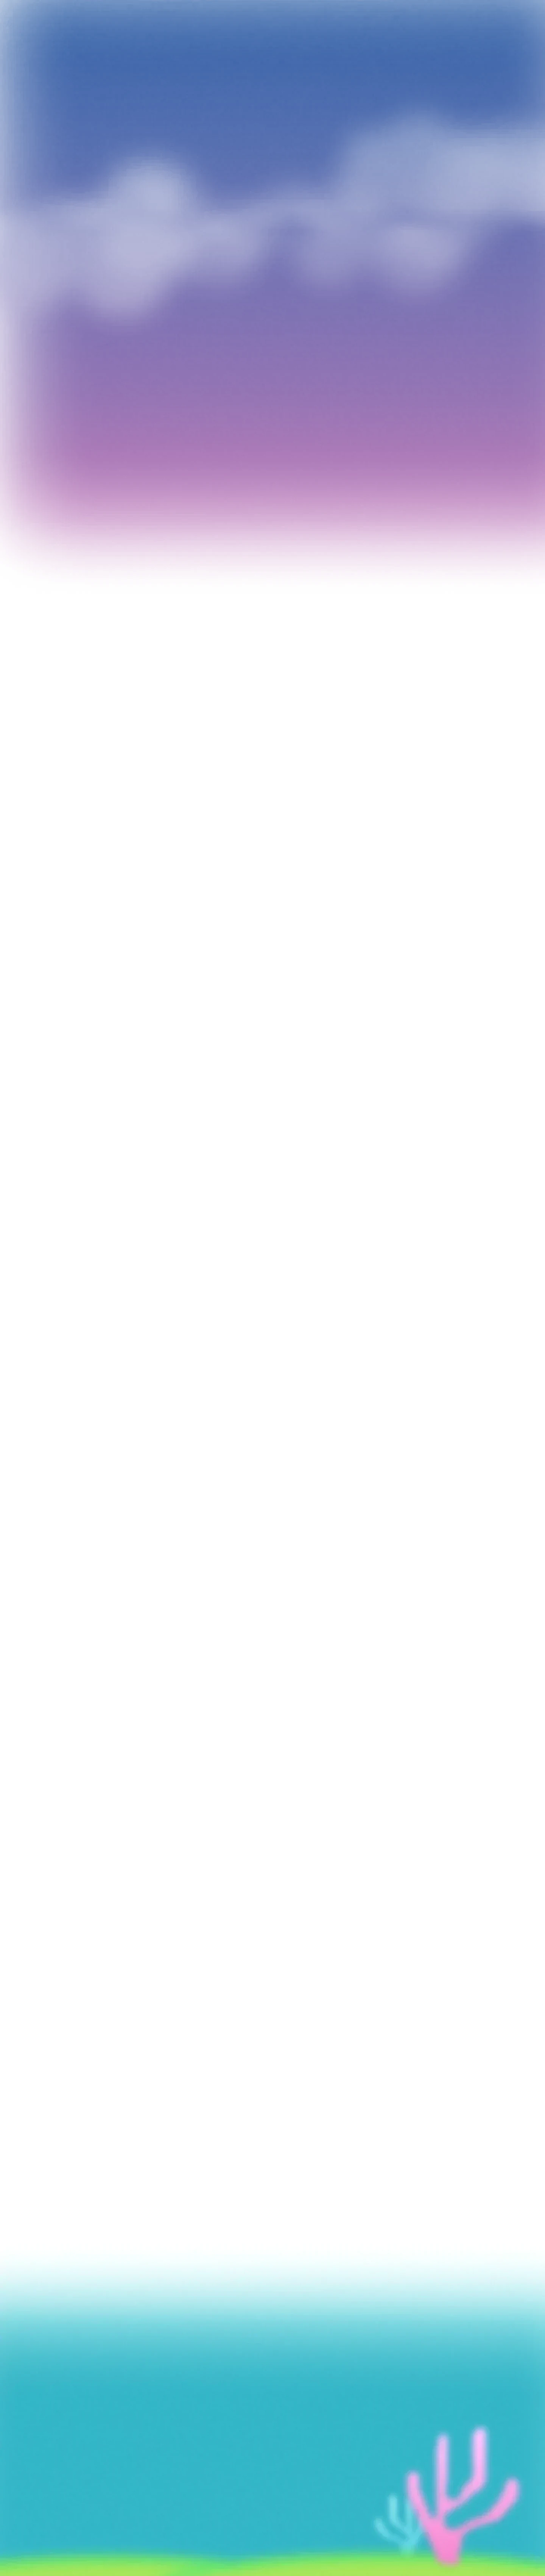
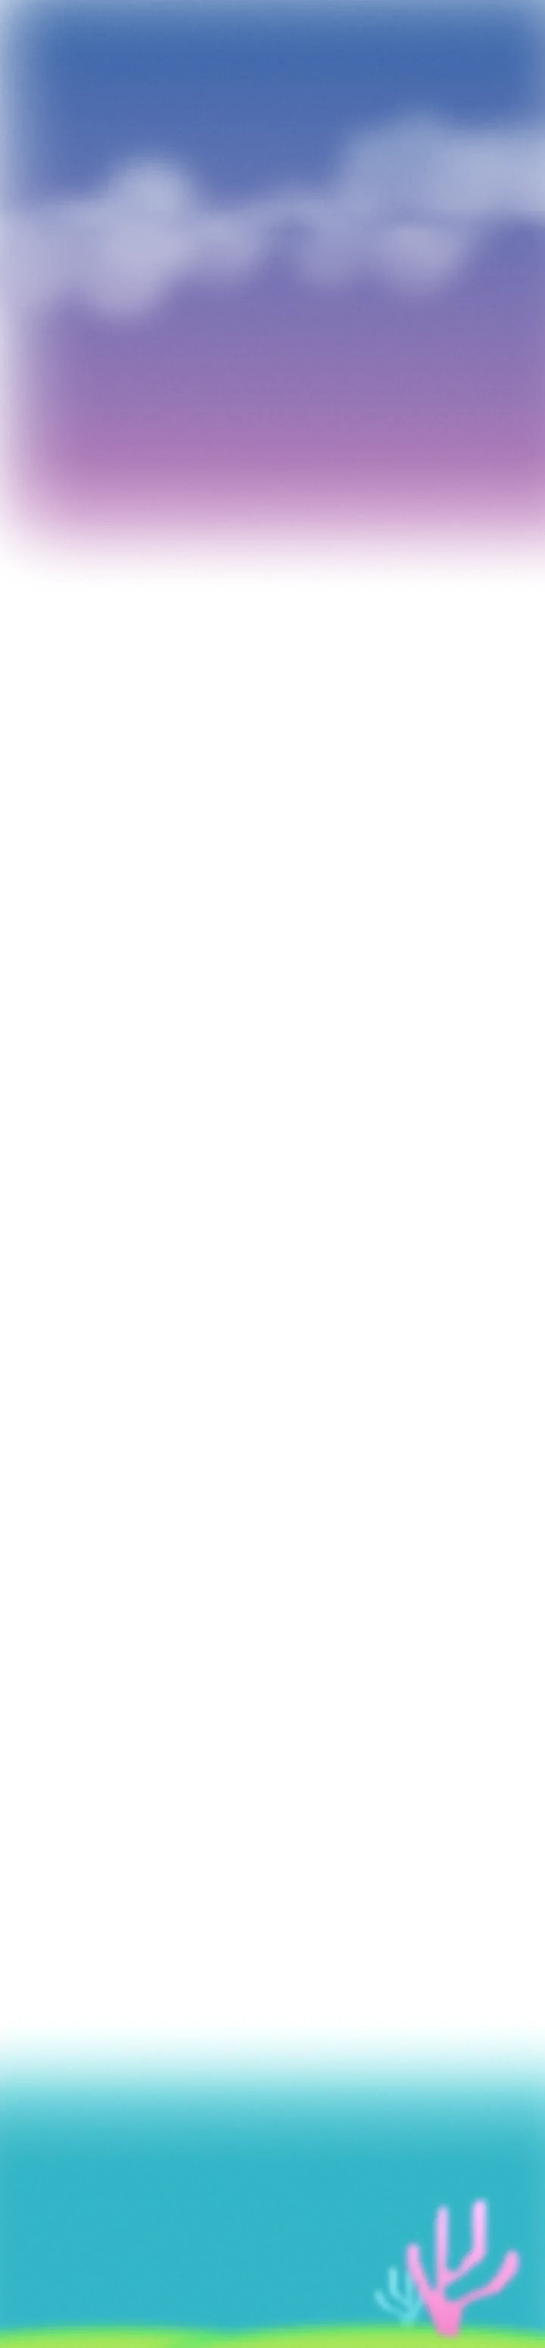
Shorter fall, no leaves, bigger laptop keeps the tab as its screen
- 600px of white cut between Work and the sunset (background, sunset, fish
  and contact moved up), so the tab's fall is about 40% shorter.
- The leaf doors over the sunset are removed.
- The laptop is 1.3x bigger; the empty tab stays in it as its screen (riding
  along as it drops and floats), with "Discover more UX related projects on
  Behance" in bigger type.
- Fix: the last project tab lost its colour (showed black) after scrolling
  back up; it is restored to the project colour now.

Claude-Session: https://claude.ai/code/session_01DvA43kwznhfsetrajp2DeL

diff --git a/chameleon.js b/chameleon.js
@@ -168,36 +168,54 @@
   const laptop = $('#laptop'), screenLink = $('#screen'), art = $('.sunset-art');
   const seaFront = $('#seaFront'), seaCrest = $('#seaCrest');
   if (laptop && screenLink && art && seaFront) {
+    const LAST = PROJECTS[PROJECTS.length - 1];
     const last = cards[cards.length - 1], slot = last.parentElement, lastImg = last.querySelector('.thumb img');
-    const GLASS = { x: 513.1 + 32.6, y: 293 + 112.8, w: 331.9, rot: -10.5 };   // the screen glass in sunset coords
+    const S = 1.3;                                   // the laptop is drawn 1.3× its Figma size
+    const O = { x: 513.1 + 276, y: 293 + 420 };      // its pivot (laptop.svg 276, 420) in sunset coords
+    const GLASS = { x: 32.6 - 276, y: 112.8 - 420, w: 331.9, rot: -10.5 };   // the screen glass, from the pivot
     const HOVER = -40, REST = 38;              // laptop offset before the drop, and floating in the sea
     const SEA = { top: 700, line: 48 };        // the sea strip's top (sunset coords) and its calm waterline in it
     const TEAL = [82, 197, 211], WHITE = [246, 250, 252];
     const hex = h => [1, 3, 5].map(i => parseInt(h.slice(i, i + 2), 16));
     const mix = (a, b, t) => `rgb(${a.map((v, i) => Math.round(v + (b[i] - v) * t)).join(',')})`;
     const smooth = t => t * t * (3 - 2 * t);
-    const lastTab = hex(PROJECTS[PROJECTS.length - 1].tab);
+    const lastTab = hex(LAST.tab);
     // the sea's surface: two slow swells
     const wave = (x, t) => 7 * Math.sin(x / 150 + t * 1.25) + 4 * Math.sin(x / 61 - t * .85);
 
-    let landed = false, y = HOVER, v = 0, lastT = performance.now();
+    // the empty tab that stays in the laptop as its screen, under the text
+    const screenTab = document.createElement('span');
+    screenTab.className = 'wcard active laptop-tab';
+    screenTab.setAttribute('aria-hidden', 'true');
+    screenTab.style.setProperty('--tab', `rgb(${TEAL})`); screenTab.style.setProperty('--c', `rgb(${TEAL})`);
+    screenTab.innerHTML = `<span class="win"><span class="thumb"></span>${tabSvg('lap')}</span>`;
+    laptop.insertBefore(screenTab, screenLink);
+
+    // where the screen glass is right now: its corner (sunset coords) and its angle
+    let y = HOVER, v = 0, tilt = 0, bob = 0, landed = false, lastT = performance.now();
+    function glass() {
+      const r = tilt * Math.PI / 180, gx = GLASS.x * S, gy = GLASS.y * S;
+      return { x: O.x + gx * Math.cos(r) - gy * Math.sin(r), y: O.y + gx * Math.sin(r) + gy * Math.cos(r) + y + bob,
+               rot: GLASS.rot + tilt, w: GLASS.w * S };
+    }
+
     function flight() {
       // 0 when the last tab sits in the middle of the screen, 1 when the laptop screen does
-      const z = slot.getBoundingClientRect(), a = art.getBoundingClientRect(), k = a.width / 1440;
+      const z = slot.getBoundingClientRect(), a = art.getBoundingClientRect(), k = a.width / 1440, g = glass();
       const from = z.top + z.height / 2 - innerHeight * .5;
-      const to = a.top + (GLASS.y + HOVER + 110) * k - innerHeight * .5;
+      const to = a.top + (O.y + HOVER + GLASS.y * S + 120 * S) * k - innerHeight * .5;
       const p = reduce ? 0 : clamp(from / (from - to || 1), 0, 1);
       last.classList.toggle('flying', p > 0);
       workStage.classList.toggle('let-go', p > 0);   // on phones the chameleon steps aside
       if (p <= 0) {
         last.style.transform = last.style.opacity = '';
-        last.style.removeProperty('--tab'); last.style.removeProperty('--c');
+        last.style.setProperty('--tab', LAST.tab); last.style.setProperty('--c', LAST.tint || LAST.hex);
         if (lastImg) lastImg.style.opacity = '';
       } else {
         const e = smooth(p), unit = z.width / slot.offsetWidth;     // screen px per card px
-        const dx = (a.left + GLASS.x * k - z.left) / unit, dy = (a.top + (GLASS.y + HOVER) * k - z.top) / unit;
-        const sc = 1 + ((GLASS.w * k) / z.width - 1) * e;
-        const rot = GLASS.rot * e + 5 * Math.sin(Math.PI * p);      // a little sway on the way down
+        const dx = (a.left + g.x * k - z.left) / unit, dy = (a.top + g.y * k - z.top) / unit;
+        const sc = 1 + ((g.w * k) / z.width - 1) * e;
+        const rot = g.rot * e + 5 * Math.sin(Math.PI * p);          // a little sway on the way down
         last.style.transform = `translate(${dx * e}px, ${dy * e}px) rotate(${rot}deg) scale(${sc})`;
         if (lastImg) lastImg.style.opacity = 1 - clamp(p / .12, 0, 1);
         const c = clamp((p - .2) / .6, 0, 1);
@@ -205,6 +223,8 @@
         last.style.setProperty('--c', mix(WHITE, TEAL, c));
         last.style.opacity = 1 - clamp((p - .96) / .04, 0, 1);
       }
+      // it hands over to the identical tab inside the laptop, which then rides along with it
+      screenTab.style.opacity = reduce ? 1 : clamp((p - .96) / .04, 0, 1);
       landed = p >= 1;
       screenLink.classList.toggle('off', !landed && !reduce);
     }
@@ -216,10 +236,9 @@
       const goal = landed || reduce ? REST : HOVER;
       v += ((goal - y) * 70 - v * 7) * dt; y += v * dt;
       const settle = clamp(1 - Math.abs(v) / 120, 0, 1);
-      const cx = 513.1 + 276;                                      // the laptop's middle, for the waves under it
-      const bob = landed || reduce ? wave(cx, t) * settle : 0;
-      const tilt = landed || reduce ? (wave(cx + 60, t) - wave(cx - 60, t)) / 120 * 57.3 * .8 * settle : 0;
-      laptop.style.transform = `translateY(${(y + bob).toFixed(2)}px) rotate(${tilt.toFixed(2)}deg)`;
+      bob = landed || reduce ? wave(O.x, t) * settle : 0;
+      tilt = landed || reduce ? (wave(O.x + 60, t) - wave(O.x - 60, t)) / 120 * 57.3 * .8 * settle : 0;
+      laptop.style.transform = `translateY(${(y + bob).toFixed(2)}px) rotate(${tilt.toFixed(2)}deg) scale(${S})`;
       // the water in front of it
       let d = '', c;
       for (let x = -20; x <= 1460; x += 40) {
@@ -232,8 +251,8 @@
 
     function tick(now) {
       const a = art.getBoundingClientRect();
-      if (a.bottom > -200 && a.top < innerHeight + 2000) { flight(); sea(now); }
-      else lastT = now;
+      if (a.bottom > -200 && a.top < innerHeight + 2000) sea(now); else lastT = now;
+      flight();
       requestAnimationFrame(tick);
     }
     requestAnimationFrame(tick);

diff --git a/styles.css b/styles.css
@@ -33,10 +33,10 @@ body {
 .stage {
   position: relative;
   width: 1440px;
-  height: 6797px;
+  height: 6197px;
   overflow: clip;   /* not hidden: that would stop the sticky chameleon */
   /* All artwork, exported from the Figma frame with text and icons hidden */
-  background: #fff url("assets/background.webp?v=7") top left / 1440px 6797px no-repeat;
+  background: #fff url("assets/background.webp?v=8") top left / 1440px 6197px no-repeat;
   /* script.js sets `zoom` so the 1440px design fills the viewport width */
 }
 
@@ -80,7 +80,7 @@ body {
 .pin-wrap { position: absolute; left: 0; top: 459px; width: 1440px; height: 2200px; }
 .pin {
   position: sticky; top: var(--pin-top, -361px); width: 1440px; height: 1500px; overflow: clip;
-  background: #fff url("assets/background.webp?v=7") 0 -459px / 1440px 6797px no-repeat;
+  background: #fff url("assets/background.webp?v=8") 0 -459px / 1440px 6197px no-repeat;
 }
 
 /* moved by script.js while pinned: the white cloud shape settles in the centre,
@@ -530,26 +530,24 @@ a:focus-visible { outline: 2px solid var(--white); outline-offset: 4px; }
 /* ---------- Sunset ---------- */
 .sunset-art { position: relative; width: 1440px; height: 860px; }
 /* the laptop and its screen float together (chameleon.js); the sea strip is drawn in front */
-.laptop-float { width: 553px; height: 496px; transform-origin: 276px 420px; }
+.laptop-float { width: 553px; height: 496px; transform-origin: 276px 420px; transform: scale(1.3); }
+/* the empty tab that stays in the laptop as its screen (chameleon.js), on the screen glass */
+.laptop-tab { position: absolute; left: 32.6px; top: 112.8px; width: 331.9px; transform: rotate(-10.5deg); transform-origin: 0 0; pointer-events: none; cursor: default; }
 .sea-front { pointer-events: none; overflow: visible; filter: blur(1.2px); }
 #screen { transition: opacity .5s; }
 #screen.off { opacity: 0; pointer-events: none; }
 /* the last project tab on its way into the laptop (chameleon.js) */
 .wcard.flying { transform-origin: 0 0; transition: none; filter: none; z-index: 30; }
 .wcard.flying .win::after { opacity: 0; }
-/* leaf doors (script.js): same size throughout, hinged on the end of the stem;
-   the right one is mirrored */
-.leaf { width: 600px; height: 735px; pointer-events: none; transform-origin: 0 529px; }
-.leaf-r { transform: scaleX(-1); }   /* its box starts at the stem end; mirrored, the blade points back in */
 /* laptop screen: shows the projects one by one; click opens the one on screen */
 .screen {
   text-decoration: none;
-  width: 314px; height: 208px; transform-origin: 0 0; transform: rotate(-10.5deg);
-  display: grid; place-items: center; align-content: center; gap: 6px; padding: 18px;
+  width: 314px; height: 200px; transform-origin: 0 0; transform: rotate(-10.5deg);
+  display: grid; place-items: center; align-content: center; gap: 8px; padding: 14px;
   border: 0; border-radius: 14px; background: none; color: #fff; text-align: center; cursor: pointer;
 }
-.screen .s-k { font: 400 11px var(--f-label); letter-spacing: .16em; text-transform: uppercase; opacity: .85; }
-.screen .s-t { font: 400 34px/1.05 var(--f-seasons); white-space: nowrap; }
+.screen .s-k { font: 400 13px/1.45 var(--f-label); letter-spacing: .14em; text-transform: uppercase; white-space: normal; max-width: 250px; }
+.screen .s-t { font: 400 46px/1.05 var(--f-seasons); white-space: nowrap; }
 .screen:hover .s-t, .screen:focus-visible .s-t { text-decoration: underline; text-underline-offset: 6px; text-decoration-thickness: 1px; }
 .screen:focus-visible { outline: 2px solid #fff; outline-offset: -6px; }
 .caret { display: inline-block; width: 2px; height: .9em; background: #fff; vertical-align: -.1em; margin-left: 3px; animation: blink 1s steps(1) infinite; }
@@ -572,7 +570,7 @@ a:focus-visible { outline: 2px solid var(--white); outline-offset: 4px; }
 
   .sec {
     position: relative; top: auto !important; width: 100%; padding: 0 20px;
-    background: url("assets/background.webp?v=7") no-repeat;
+    background: url("assets/background.webp?v=8") no-repeat;
     background-size: calc(1440px * var(--s, 1)) auto;
     background-position: center calc(var(--y0, 0) * var(--s, 1) * -1px);
   }
@@ -590,7 +588,7 @@ a:focus-visible { outline: 2px solid var(--white); outline-offset: 4px; }
      second background, and the crop fades into the white of the Work section */
   #about {
     --y0: 750; --s: .8; min-height: 690px; padding-top: 40px; padding-bottom: 110px;
-    background-image: url("assets/clouds.webp"), url("assets/background.webp?v=7");
+    background-image: url("assets/clouds.webp"), url("assets/background.webp?v=8");
     background-size: calc(1440px * var(--s)) auto;
     background-position: calc(-60px * var(--s)) calc((1190 - var(--y0)) * var(--s) * 1px), calc(-60px * var(--s)) calc(var(--y0) * var(--s) * -1px);
   }
@@ -623,10 +621,10 @@ a:focus-visible { outline: 2px solid var(--white); outline-offset: 4px; }
   .wcard .thumb { font-size: 22px; }
 
   .sunset { padding: 0; overflow: hidden; background: none; }
-  .sunset-art { zoom: var(--mz, .45); margin-left: -300px; background: url("assets/background.webp?v=7") 0 -5340px / 1440px 6797px no-repeat; }
+  .sunset-art { zoom: var(--mz, .45); margin-left: -300px; background: url("assets/background.webp?v=8") 0 -4740px / 1440px 6197px no-repeat; }
   .sunset-art .l { position: absolute; left: var(--x); top: var(--y); width: auto; height: auto; }
 
-  #contact { --y0: 6160; --s: .9; min-height: 600px; padding-top: 44px; padding-bottom: 110px; text-align: center; }
+  #contact { --y0: 5560; --s: .9; min-height: 600px; padding-top: 44px; padding-bottom: 110px; text-align: center; }
   #open { width: 92%; max-width: 420px; margin: 0 auto; }
   .t-body { margin-top: 28px; font-size: 16px; white-space: normal !important; }
   .t-email { width: 100% !important; max-width: 340px; height: 54px !important; margin: 12px auto 0; font-size: 17px; }

diff --git a/index.html b/index.html
@@ -11,7 +11,7 @@
   <link rel="preconnect" href="https://fonts.googleapis.com">
   <link rel="preconnect" href="https://fonts.gstatic.com" crossorigin>
   <link rel="stylesheet" href="https://fonts.googleapis.com/css2?family=Archivo:wdth,wght@125,400;125,700&family=Italiana&family=Unbounded:wght@300;400;500&display=swap">
-  <link rel="stylesheet" href="styles.css?v=101ebe5e">
+  <link rel="stylesheet" href="styles.css?v=245d6415">
   <script>document.documentElement.classList.add('js', 'is-loading')</script>
 </head>
 <body>
@@ -62,7 +62,7 @@
 
     <!-- Sunset: sun, water lines and laptop as separate layers, stacked as in Figma.
          The laptop screen links to Behance (BEHANCE_URL in script.js). -->
-    <div class="sec sunset" style="top:5340px">
+    <div class="sec sunset" style="top:4740px">
       <div class="sunset-art">
         <img class="l" style="--x:390px;--y:16px" src="assets/sun.svg" width="661" height="661" alt="">
         <!-- The laptop and its screen move together (chameleon.js): the last project
@@ -70,8 +70,8 @@
              and floats on the waves drawn in front of it. -->
         <div class="l laptop-float" id="laptop" style="--x:513.1px;--y:293px">
           <img class="l" style="--x:0px;--y:0px" src="assets/laptop.svg" width="553" height="496" alt="">
-          <a class="l screen" id="screen" style="--x:41.1px;--y:120px" href="#" data-behance target="_blank" rel="noopener">
-            <span class="s-k">Discover more projects</span><span class="s-t"><span id="scrText">on Behance</span><span class="caret" aria-hidden="true"></span></span>
+          <a class="l screen" id="screen" style="--x:45.1px;--y:132px" href="#" data-behance target="_blank" rel="noopener">
+            <span class="s-k">Discover more UX related projects</span><span class="s-t"><span id="scrText">on Behance</span><span class="caret" aria-hidden="true"></span></span>
           </a>
         </div>
         <svg class="l sea-front" style="--x:0px;--y:700px" width="1440" height="160" viewBox="0 0 1440 160" aria-hidden="true">
@@ -81,14 +81,9 @@
           <path id="seaFront" fill="url(#seaFill)"/><path id="seaCrest" fill="none" stroke="#fff" stroke-opacity=".55" stroke-width="3"/>
         </svg>
         <img class="l" style="--x:0px;--y:551px" src="assets/waves.svg" width="1440" height="264" alt="">
-        <!-- Two leaves (the Figma leaf and its mirror) close over the sun and laptop and
-             swing outwards on their stems as the sunset scrolls up (script.js). Each stem
-             end sits at the screen edge: (-40, 620) and (1480, 620). -->
-        <img class="l leaf leaf-l" id="leafL" style="--x:-40px;--y:91px" src="assets/leaf.webp" width="600" height="735" alt="">
-        <img class="l leaf leaf-r" id="leafR" style="--x:1480px;--y:91px" src="assets/leaf.webp" width="600" height="735" alt="">
       </div>
     </div>
-    <img class="l fish" style="--x:-171px;--y:5877px;--w:3150px;--h:2100px" src="assets/fish.gif" alt="">
+    <img class="l fish" style="--x:-171px;--y:5277px;--w:3150px;--h:2100px" src="assets/fish.gif" alt="">
 
 
     <!-- Work -->
@@ -114,7 +109,7 @@
     </section>
 
     <!-- Contact -->
-    <section class="sec" id="contact" style="top:6234px" aria-labelledby="open">
+    <section class="sec" id="contact" style="top:5634px" aria-labelledby="open">
       <h2 class="l reveal type" id="open" style="--d:0s;--x:405.7px;--y:16.08px"><img src="assets/type-open.svg" width="630" height="68" alt="Open for new projects"></h2>
       <p class="l reveal t-body" style="--d:.12s;--x:520px;--y:112px;--w:400px">Write directly to</p>
       <a class="l reveal t-email" style="--d:.2s;--x:520px;--y:150px;--w:400px;--h:56px" href="mailto:nikasaracuta@gmail.com">nikasaracuta@gmail.com</a>
@@ -226,8 +221,8 @@
   </div>
 
   <script src="loader.js?v=68ee955a"></script>
-  <script src="script.js?v=6706efdb"></script>
+  <script src="script.js?v=daa94792"></script>
   <script src="about.js?v=37dfe53c"></script>
-  <script src="chameleon.js?v=877913bb"></script>
+  <script src="chameleon.js?v=5895efda"></script>
 </body>
 </html>

diff --git a/script.js b/script.js
@@ -138,30 +138,7 @@ if (about && puff && cloudsL && cloudsR) {
   moveSky();
 }
 
-// Leaf doors: the Figma leaf and its mirror meet over the sun and laptop, then
-// swing outwards together on their stems as the sunset scrolls up.
 const sunsetArt = document.querySelector('.sunset-art');
-const leafL = document.getElementById('leafL'), leafR = document.getElementById('leafR');
-// one size throughout, hinged on the stem ends at the screen edges: closed, the blades
-// meet over the sun; open, they have swung up and out
-const DOOR = { scale: 1.8, closed: 20, open: -55 };
-let leavesQueued = false;
-function moveLeaves() {
-  leavesQueued = false;
-  const vh = innerHeight, r = sunsetArt.getBoundingClientRect();
-  // 0 (closed) until the sunset's top reaches 45% of the screen, 1 (open) once it reaches the top
-  let p = reduceMotion.matches ? 1 : Math.max(0, Math.min(1, (.45 * vh - r.top) / (.45 * vh)));
-  p = p * p * (3 - 2 * p);
-  const a = DOOR.closed + (DOOR.open - DOOR.closed) * p, s = DOOR.scale;
-  leafL.style.transform = `rotate(${a.toFixed(2)}deg) scale(${s})`;
-  leafR.style.transform = `rotate(${(-a).toFixed(2)}deg) scale(${-s}, ${s})`;
-}
-if (sunsetArt && leafL && leafR) {
-  const queueLeaves = () => { if (!leavesQueued) { leavesQueued = true; requestAnimationFrame(moveLeaves); } };
-  addEventListener('scroll', queueLeaves, { passive: true });
-  addEventListener('resize', queueLeaves);
-  moveLeaves();
-}
 
 // Menu: white over the sky and the sea, blue with the colour logo over the white
 // stretch from where the sky fades out above Work down to the sea; the pink pill sits on the section you are in

diff --git a/README.md b/README.md
@@ -4,11 +4,10 @@ Static one-page portfolio built from the Figma frame **Main** (node `315:133`) i
 `PORTFOLIO` file. Open `index.html` in a browser — no build step.
 
 - `assets/background.webp` — all artwork, exported from the Figma frame with text and icons hidden.
-  The page is 6797px tall instead of Figma's 4237px: 700px of white at y 1960 for the pinned
-  About scene to hold, and 2320px in the Work section for the scrolling project list. The white
+  The page is 6197px tall instead of Figma's 4237px: 700px of white at y 1960 for the pinned
+  About scene to hold, and 1720px in the Work section for the scrolling project list. The white
   cloud shape and the blue cloud bank between About and Work are separate layers
-  (`sky-puff.webp`, `clouds.webp`) so they can move while About is pinned. The leaves above the
-  sunset are one leaf (`leaf.webp`) and its mirror, which close over the sun and open on scroll.
+  (`sky-puff.webp`, `clouds.webp`) so they can move while About is pinned.
 - `assets/type-*.svg` — display headings exported from Figma as outlined SVGs (exact letterforms).
 - `assets/icon-*.svg` — LinkedIn / Behance icons.
 - `fonts/` — drop the Roc Grotesk Wide and Area Inktrap Extended `.woff2` files here (names in
